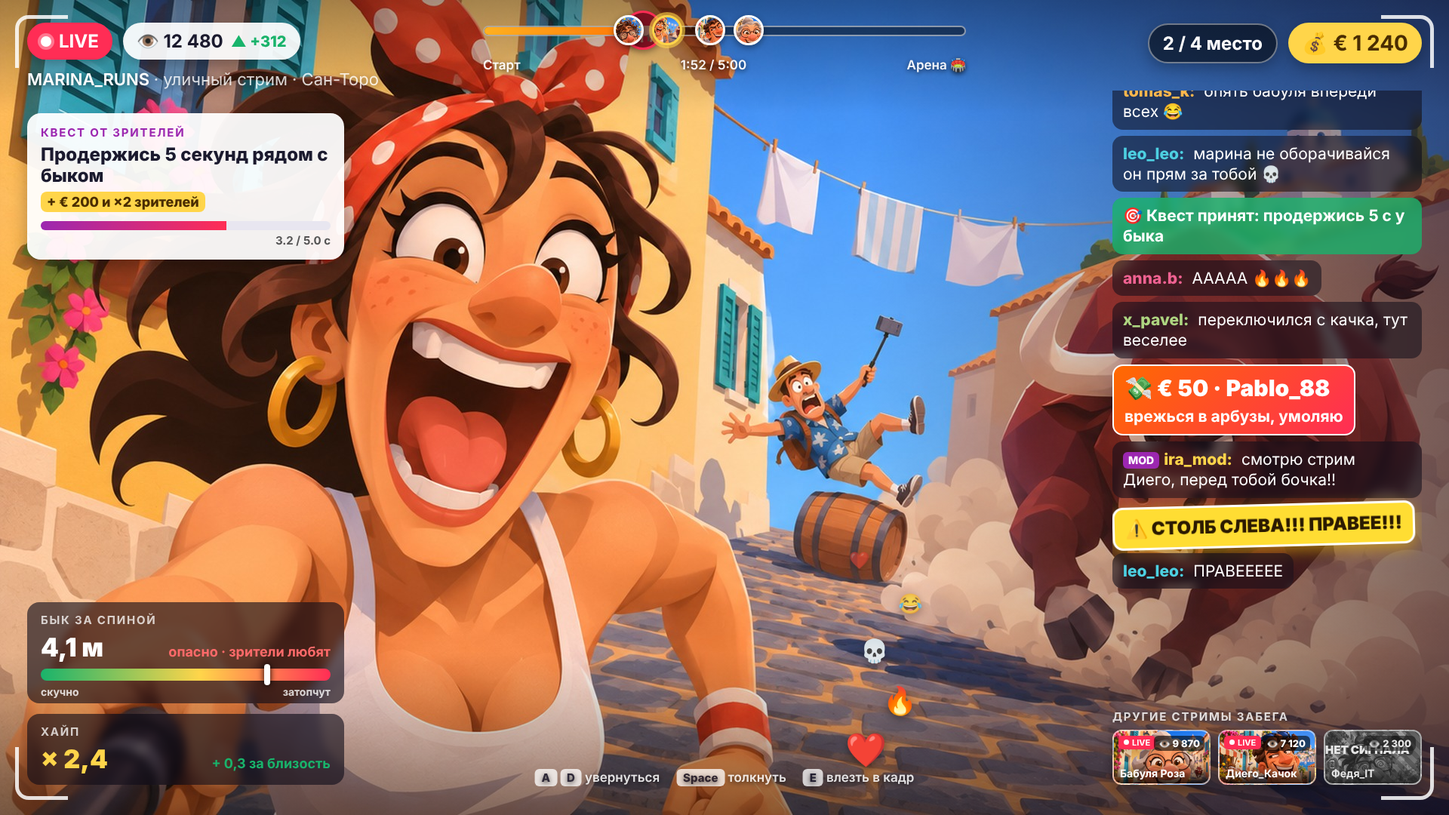
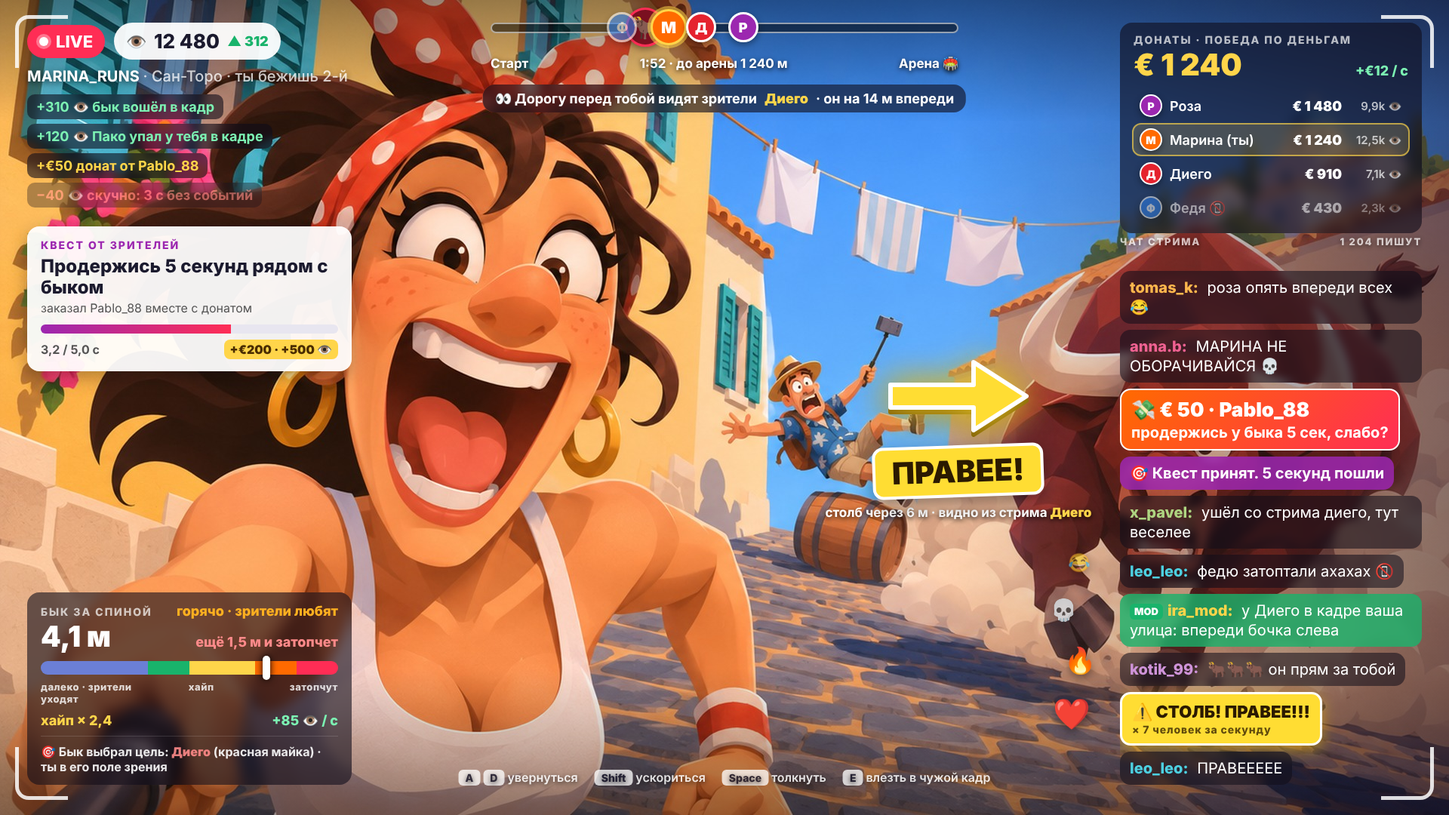
art: фейкскрин v2 без чужих стримов, раздел «Интерфейс стрима» в style.md
Claude-Session: https://claude.ai/code/session_013i76uEsykJubeGsvP9zGdB

diff --git a/art/refs/fakescreen-01-src/screen.html b/art/refs/fakescreen-01-src/screen.html
@@ -5,152 +5,183 @@
 html,body{width:1920px;height:1080px;overflow:hidden;background:#000}
 body{font-family:Inter,"Noto Color Emoji",sans-serif;color:#fff;position:relative}
 .bg{position:absolute;inset:0;background:url(base.jpg) center/cover}
-.vignette{position:absolute;inset:0;background:
- linear-gradient(90deg,rgba(0,0,0,0) 60%,rgba(20,10,30,.55) 100%),
- linear-gradient(180deg,rgba(0,0,0,.35) 0,rgba(0,0,0,0) 14%,rgba(0,0,0,0) 80%,rgba(0,0,0,.45) 100%)}
-.pill{display:inline-flex;align-items:center;gap:10px;background:rgba(255,255,255,.92);color:#1b1a2e;border-radius:999px;padding:10px 18px;font-weight:700;font-size:24px;box-shadow:0 6px 18px rgba(0,0,0,.25)}
+.vig{position:absolute;inset:0;background:
+ linear-gradient(90deg,rgba(0,0,0,0) 66%,rgba(20,10,30,.5) 100%),
+ linear-gradient(180deg,rgba(0,0,0,.4) 0,rgba(0,0,0,0) 15%,rgba(0,0,0,0) 82%,rgba(0,0,0,.4) 100%)}
+.glass{background:rgba(15,12,25,.6);backdrop-filter:blur(8px);border-radius:16px}
+.white{background:rgba(255,255,255,.94);color:#1b1a2e;border-radius:16px;box-shadow:0 8px 24px rgba(0,0,0,.3)}
+.t{font-size:14px;letter-spacing:.14em;text-transform:uppercase;font-weight:800;opacity:.7}
+.pill{display:inline-flex;align-items:center;gap:10px;border-radius:999px;padding:9px 16px;font-weight:800;font-size:22px}
 .live{background:#ff2d55;color:#fff}
-.live i{width:14px;height:14px;border-radius:50%;background:#fff;display:inline-block;animation:none;box-shadow:0 0 0 4px rgba(255,255,255,.35)}
-.top{position:absolute;left:36px;top:30px;display:flex;gap:14px;align-items:center}
-.up{color:#19b36b;font-size:20px;font-weight:800}
-.name{position:absolute;left:36px;top:92px;font-size:22px;font-weight:600;text-shadow:0 2px 8px rgba(0,0,0,.6)}
-.name span{opacity:.8;font-weight:400}
-/* progress of the street */
-.track{position:absolute;left:50%;top:34px;transform:translateX(-50%);width:640px}
-.track .bar{height:14px;border-radius:7px;background:rgba(0,0,0,.45);position:relative;border:2px solid rgba(255,255,255,.5)}
-.track .fill{position:absolute;left:0;top:0;bottom:0;width:38%;border-radius:7px;background:linear-gradient(90deg,#ffb020,#ff6a00)}
-.track .m{position:absolute;top:-16px;width:40px;height:40px;border-radius:50%;border:3px solid #fff;background:#444 center/cover;box-shadow:0 3px 8px rgba(0,0,0,.4);transform:translateX(-50%)}
-.track .bull{top:-22px;width:52px;height:52px;border:3px solid #ff2d55;background:#7a1020;display:flex;align-items:center;justify-content:center;font-size:30px}
-.track .lbl{display:flex;justify-content:space-between;font-size:17px;font-weight:600;margin-top:28px;text-shadow:0 2px 6px rgba(0,0,0,.7);opacity:.95}
-/* right top */
-.tr{position:absolute;right:36px;top:30px;display:flex;gap:14px;align-items:center}
-.money{background:#ffd54a;color:#4a2d00;font-size:28px}
-.place{background:rgba(0,0,0,.55);color:#fff;border:2px solid rgba(255,255,255,.4)}
-/* chat */
-.chat{position:absolute;right:36px;top:120px;width:410px;bottom:300px;overflow:hidden;display:flex;flex-direction:column;justify-content:flex-end;gap:8px}
-.msg{background:rgba(15,12,25,.55);backdrop-filter:blur(6px);border-radius:14px;padding:10px 14px;font-size:21px;line-height:1.3;max-width:100%;align-self:flex-start}
-.msg b{font-weight:800;margin-right:6px}
-.msg.warn{background:#ffdd33;color:#2b1a00;font-weight:900;font-size:24px;border:3px solid #fff;box-shadow:0 6px 20px rgba(255,200,0,.5);transform:rotate(-1.5deg)}
-.msg.donate{background:linear-gradient(135deg,#ff6a00,#ff2d55);color:#fff;font-weight:700;border:2px solid #fff}
-.msg.donate .sum{display:block;font-size:30px;font-weight:900;margin-bottom:4px}
-.msg.sys{background:rgba(25,179,107,.8);font-weight:700}
-.c1{color:#ffb74d}.c2{color:#4dd0e1}.c3{color:#f06292}.c4{color:#aed581}.c5{color:#ce93d8}.c6{color:#ffd54a}
-.badge{display:inline-block;background:#9c27b0;color:#fff;font-size:14px;padding:2px 7px;border-radius:6px;margin-right:6px;vertical-align:middle;font-weight:800}
-/* quest */
-.quest{position:absolute;left:36px;top:150px;width:420px;background:rgba(255,255,255,.94);color:#1b1a2e;border-radius:18px;padding:16px 18px;box-shadow:0 8px 24px rgba(0,0,0,.3)}
-.quest h4{font-size:15px;letter-spacing:.12em;text-transform:uppercase;color:#9c27b0;margin-bottom:6px}
+.live i{width:12px;height:12px;border-radius:50%;background:#fff;display:inline-block;box-shadow:0 0 0 4px rgba(255,255,255,.35)}
+.av{display:inline-flex;align-items:center;justify-content:center;border-radius:50%;font-weight:900;color:#fff;border:3px solid #fff;box-shadow:0 3px 8px rgba(0,0,0,.4)}
+.aM{background:#ff6a00}.aR{background:#9c27b0}.aD{background:#e5232e}.aF{background:#2f80ed}
+/* ---------- top left: who am I, viewers, why they change ---------- */
+.tl{position:absolute;left:36px;top:30px;width:430px}
+.tl .row{display:flex;gap:12px;align-items:center}
+.viewers{background:rgba(255,255,255,.94);color:#1b1a2e}
+.viewers .n{font-size:26px}
+.viewers .d{color:#19b36b;font-size:18px;font-weight:900}
+.nick{margin-top:10px;font-size:20px;font-weight:700;text-shadow:0 2px 8px rgba(0,0,0,.7)}
+.nick span{opacity:.75;font-weight:500}
+.feed{margin-top:12px;display:flex;flex-direction:column;gap:6px}
+.feed div{align-self:flex-start;padding:6px 12px;border-radius:10px;font-size:18px;font-weight:700;background:rgba(15,12,25,.6);backdrop-filter:blur(6px)}
+.feed .pos{color:#7CF2B3}.feed .neg{color:#ff8a8a}.feed .eur{color:#ffd54a}
+.feed .old{opacity:.55}
+/* ---------- quest ---------- */
+.quest{position:absolute;left:36px;top:300px;width:430px;padding:16px 18px}
+.quest h4{color:#9c27b0;margin-bottom:6px;font-size:14px;letter-spacing:.14em;text-transform:uppercase;font-weight:800}
 .quest p{font-size:24px;font-weight:800;line-height:1.15}
-.quest .rw{font-size:18px;color:#4a2d00;background:#ffd54a;display:inline-block;border-radius:8px;padding:3px 8px;margin-top:8px;font-weight:800}
-.quest .pb{height:12px;background:#e8e6f0;border-radius:6px;margin-top:12px;overflow:hidden}
+.quest .from{font-size:16px;color:#555;margin-top:4px}
+.quest .pb{height:12px;background:#e8e6f0;border-radius:6px;margin-top:12px;overflow:hidden;position:relative}
 .quest .pb i{display:block;height:100%;width:64%;background:linear-gradient(90deg,#9c27b0,#ff2d55)}
-.quest small{display:block;text-align:right;font-size:15px;font-weight:700;margin-top:4px;color:#555}
-/* bottom left: danger + hype */
-.bl{position:absolute;left:36px;bottom:40px;display:flex;flex-direction:column;gap:14px}
-.card{background:rgba(15,12,25,.62);backdrop-filter:blur(6px);border-radius:16px;padding:14px 18px;width:420px}
-.card .t{font-size:15px;letter-spacing:.12em;text-transform:uppercase;opacity:.75;margin-bottom:6px;font-weight:700}
-.card .v{font-size:34px;font-weight:900;display:flex;justify-content:space-between;align-items:baseline}
-.card .v small{font-size:18px;font-weight:700;color:#ff6a6a}
-.heat{height:16px;border-radius:8px;background:linear-gradient(90deg,#19b36b,#ffd54a 55%,#ff2d55);position:relative;margin-top:8px}
-.heat i{position:absolute;top:-6px;left:78%;width:8px;height:28px;background:#fff;border-radius:4px;box-shadow:0 0 8px #000;transform:translateX(-50%)}
-.heat .z{position:absolute;top:22px;font-size:14px;font-weight:700;opacity:.8}
-.hype .v{color:#ffd54a}
-/* reactions */
-.re{position:absolute;font-size:44px;filter:drop-shadow(0 4px 6px rgba(0,0,0,.4))}
-/* other streams */
-.others{position:absolute;right:36px;bottom:40px;width:410px}
-.others .t{font-size:15px;letter-spacing:.12em;text-transform:uppercase;opacity:.8;margin-bottom:8px;font-weight:700;text-shadow:0 2px 6px rgba(0,0,0,.7)}
-.others .row{display:flex;gap:10px}
-.th{flex:1;aspect-ratio:16/9;border-radius:12px;background:#333 center/cover;position:relative;border:2px solid rgba(255,255,255,.5);overflow:hidden;box-shadow:0 6px 16px rgba(0,0,0,.35)}
-.th .n{position:absolute;left:0;right:0;bottom:0;padding:5px 8px;font-size:14px;font-weight:700;background:linear-gradient(0deg,rgba(0,0,0,.8),rgba(0,0,0,0))}
-.th .vv{position:absolute;right:6px;top:6px;font-size:13px;font-weight:800;background:rgba(0,0,0,.6);padding:2px 6px;border-radius:6px}
-.th .live{position:absolute;left:6px;top:6px;font-size:11px;padding:2px 7px;border-radius:5px;display:inline-flex;gap:4px;align-items:center}
-.th .live i{width:7px;height:7px;box-shadow:none}
-.th.lost{filter:grayscale(1) contrast(.8)}
-.th.lost .ns{position:absolute;inset:0;display:flex;align-items:center;justify-content:center;font-size:15px;font-weight:900;color:#fff;background:repeating-linear-gradient(45deg,rgba(0,0,0,.45) 0 6px,rgba(0,0,0,.25) 6px 12px)}
-/* keys */
-.keys{position:absolute;left:50%;bottom:40px;transform:translateX(-50%);display:flex;gap:22px;font-size:17px;font-weight:600;opacity:.85;text-shadow:0 2px 6px rgba(0,0,0,.8)}
-.keys kbd{background:rgba(255,255,255,.9);color:#1b1a2e;border-radius:6px;padding:2px 9px;font-family:Inter;font-weight:800;margin-right:4px;font-size:15px}
-/* phone frame corners */
-.corner{position:absolute;width:70px;height:70px;border:5px solid rgba(255,255,255,.85);border-radius:6px}
-.corner.tl{left:0;top:0;border-right:0;border-bottom:0;left:20px;top:20px;border-radius:18px 0 0 0}
+.quest .meta{display:flex;justify-content:space-between;align-items:center;margin-top:8px;font-size:16px;font-weight:700;color:#555}
+.quest .rw{background:#ffd54a;color:#4a2d00;border-radius:8px;padding:3px 8px;font-weight:900}
+/* ---------- top center: street progress ---------- */
+.track{position:absolute;left:50%;top:30px;transform:translateX(-50%);width:620px}
+.track .bar{height:14px;border-radius:7px;background:rgba(0,0,0,.5);position:relative;border:2px solid rgba(255,255,255,.55)}
+.track .m{position:absolute;top:-16px;width:40px;height:40px;font-size:18px;transform:translateX(-50%)}
+.track .me{width:48px;height:48px;top:-20px;border-color:#ffd54a;box-shadow:0 0 0 4px rgba(255,213,74,.55);font-size:21px}
+.track .bull{top:-22px;width:52px;height:52px;border-color:#ff2d55;background:#7a1020;font-size:30px}
+.track .lbl{display:flex;justify-content:space-between;font-size:17px;font-weight:700;margin-top:30px;text-shadow:0 2px 6px rgba(0,0,0,.8)}
+.eyes{position:absolute;left:50%;top:112px;transform:translateX(-50%);padding:8px 16px;font-size:18px;font-weight:700;display:flex;gap:10px;align-items:center;white-space:nowrap}
+.eyes b{color:#ffd54a}
+/* ---------- top right: score ---------- */
+.score{position:absolute;right:36px;top:30px;width:400px;padding:14px 18px}
+.score .big{display:flex;justify-content:space-between;align-items:baseline}
+.score .eur{font-size:40px;font-weight:900;color:#ffd54a}
+.score .rate{font-size:18px;font-weight:800;color:#7CF2B3}
+.lb{margin-top:10px;display:flex;flex-direction:column;gap:5px}
+.lb div{display:flex;align-items:center;gap:10px;font-size:18px;font-weight:600;padding:5px 8px;border-radius:10px}
+.lb .av{width:30px;height:30px;font-size:14px;border-width:2px}
+.lb .nm{flex:1}
+.lb .e{font-weight:900;width:84px;text-align:right}
+.lb .v{opacity:.7;width:70px;text-align:right;font-size:15px}
+.lb .me{background:rgba(255,213,74,.18);outline:2px solid rgba(255,213,74,.7)}
+.lb .off{opacity:.55}
+/* ---------- chat ---------- */
+.chat{position:absolute;right:36px;top:340px;width:400px;bottom:40px;display:flex;flex-direction:column;justify-content:flex-end;gap:8px;overflow:hidden}
+.msg{background:rgba(15,12,25,.55);backdrop-filter:blur(6px);border-radius:14px;padding:9px 13px;font-size:20px;line-height:1.3;align-self:flex-start}
+.msg b{font-weight:800;margin-right:6px}
+.msg.sys{background:rgba(156,39,176,.85);font-weight:700}
+.msg.donate{background:linear-gradient(135deg,#ff6a00,#ff2d55);font-weight:700;border:2px solid #fff}
+.msg.donate .sum{display:block;font-size:26px;font-weight:900}
+.msg.mod{background:rgba(25,179,107,.8)}
+.msg.warn{background:#ffdd33;color:#2b1a00;font-weight:900;font-size:22px;border:3px solid #fff;box-shadow:0 6px 20px rgba(255,200,0,.5)}
+.msg.warn small{display:block;font-size:14px;font-weight:800;opacity:.75;letter-spacing:.06em}
+.c1{color:#ffb74d}.c2{color:#4dd0e1}.c3{color:#f06292}.c4{color:#aed581}.c5{color:#ce93d8}.c6{color:#ffd54a}
+.badge{display:inline-block;background:#19b36b;color:#fff;font-size:13px;padding:2px 6px;border-radius:6px;margin-right:6px;vertical-align:middle;font-weight:900}
+.chatlbl{position:absolute;right:36px;top:312px;width:400px;font-size:13px;letter-spacing:.14em;text-transform:uppercase;font-weight:800;opacity:.7;text-shadow:0 2px 6px rgba(0,0,0,.8);display:flex;justify-content:space-between}
+/* ---------- callout: the one thing to do right now ---------- */
+.callout{position:absolute;left:1080px;top:470px;width:380px;text-align:center}
+.callout .arrow{filter:drop-shadow(0 0 24px rgba(255,220,50,.9)) drop-shadow(0 6px 0 #7a5a00);margin-bottom:6px}
+.callout .w{display:inline-block;background:#ffdd33;color:#2b1a00;font-weight:900;font-size:40px;padding:6px 22px;border-radius:14px;border:4px solid #fff;box-shadow:0 8px 24px rgba(0,0,0,.4);transform:rotate(-2deg)}
+.callout .why{margin-top:10px;font-size:17px;font-weight:700;text-shadow:0 2px 6px rgba(0,0,0,.9)}
+.callout .why b{color:#ffd54a}
+/* ---------- bottom left: bull gauge ---------- */
+.bull{position:absolute;left:36px;bottom:40px;width:430px;padding:14px 18px}
+.bull .hd{display:flex;justify-content:space-between;align-items:baseline}
+.bull .dist{font-size:38px;font-weight:900}
+.bull .state{font-size:18px;font-weight:800;color:#ffb020}
+.zones{height:18px;border-radius:9px;background:linear-gradient(90deg,#6b7fd6 0 36%,#19b36b 36% 50%,#ffd54a 50% 72%,#ff6a00 72% 86%,#ff2d55 86%);position:relative;margin-top:10px}
+.zones i{position:absolute;top:-7px;left:76%;width:10px;height:32px;background:#fff;border-radius:5px;box-shadow:0 0 10px #000;transform:translateX(-50%)}
+.zl{display:flex;font-size:13px;font-weight:800;opacity:.8;margin-top:8px;letter-spacing:.04em}
+.zl span:nth-child(1){width:36%}.zl span:nth-child(2){width:36%;text-align:center}.zl span:nth-child(3){width:28%;text-align:right}
+.eff{display:flex;justify-content:space-between;margin-top:10px;font-size:18px;font-weight:800}
+.eff .h{color:#ffd54a}.eff .g{color:#7CF2B3}
+.target{margin-top:10px;font-size:16px;font-weight:700;opacity:.9;padding-top:10px;border-top:1px solid rgba(255,255,255,.15)}
+.target b{color:#ff8a8a}
+/* ---------- keys ---------- */
+.keys{position:absolute;left:50%;bottom:40px;transform:translateX(-50%);display:flex;gap:22px;font-size:16px;font-weight:600;opacity:.85;text-shadow:0 2px 6px rgba(0,0,0,.8);white-space:nowrap}
+.keys kbd{background:rgba(255,255,255,.9);color:#1b1a2e;border-radius:6px;padding:2px 9px;font-family:Inter;font-weight:800;margin-right:4px;font-size:14px}
+.re{position:absolute;font-size:40px;filter:drop-shadow(0 4px 6px rgba(0,0,0,.4))}
+.corner{position:absolute;width:70px;height:70px;border:5px solid rgba(255,255,255,.85)}
+.corner.tl{left:20px;top:20px;border-right:0;border-bottom:0;border-radius:18px 0 0 0}
 .corner.tr{right:20px;top:20px;border-left:0;border-bottom:0;border-radius:0 18px 0 0}
 .corner.bl{left:20px;bottom:20px;border-right:0;border-top:0;border-radius:0 0 0 18px}
 .corner.br{right:20px;bottom:20px;border-left:0;border-top:0;border-radius:0 0 18px 0}
-.rec{position:absolute;left:50%;top:94px;transform:translateX(-50%);font-size:16px;font-weight:700;letter-spacing:.2em;opacity:.8;text-shadow:0 2px 6px rgba(0,0,0,.8)}
 </style></head><body>
-<div class="bg"></div><div class="vignette"></div>
+<div class="bg"></div><div class="vig"></div>
 
-<div class="top">
-  <span class="pill live"><i></i> LIVE</span>
-  <span class="pill">👁 12 480 <span class="up">▲ +312</span></span>
-</div>
-<div class="name">MARINA_RUNS <span>· уличный стрим · Сан-Торо</span></div>
-
-<div class="track">
-  <div class="bar"><div class="fill"></div>
-    <div class="m bull" style="left:33%">🐂</div>
-    <div class="m" style="left:38%;background-image:url(base.jpg);border-color:#ffd54a;box-shadow:0 0 0 4px rgba(255,213,74,.6)"></div>
-    <div class="m" style="left:30%;background-image:url(runner-nerd-nosignal-01.jpg)"></div>
-    <div class="m" style="left:47%;background-image:url(runner-bro-smug-01.jpg)"></div>
-    <div class="m" style="left:55%;background-image:url(runner-grandma-delight-01.jpg)"></div>
+<div class="tl">
+  <div class="row">
+    <span class="pill live"><i></i> LIVE</span>
+    <span class="pill viewers">👁 <span class="n">12 480</span><span class="d">▲ 312</span></span>
   </div>
-  <div class="lbl"><span>Старт</span><span>1:52 / 5:00</span><span>Арена 🏟</span></div>
+  <div class="nick">MARINA_RUNS <span>· Сан-Торо · ты бежишь 2-й</span></div>
+  <div class="feed">
+    <div class="pos">+310 👁 бык вошёл в кадр</div>
+    <div class="pos">+120 👁 Пако упал у тебя в кадре</div>
+    <div class="eur">+€50 донат от Pablo_88</div>
+    <div class="neg old">−40 👁 скучно: 3 с без событий</div>
+  </div>
 </div>
 
-<div class="tr">
-  <span class="pill place">2 / 4 место</span>
-  <span class="pill money">💰 € 1 240</span>
-</div>
-
-<div class="quest">
+<div class="quest white">
   <h4>Квест от зрителей</h4>
   <p>Продержись 5 секунд рядом с быком</p>
-  <span class="rw">+ € 200 и ×2 зрителей</span>
+  <div class="from">заказал Pablo_88 вместе с донатом</div>
   <div class="pb"><i></i></div>
-  <small>3.2 / 5.0 с</small>
+  <div class="meta"><span>3,2 / 5,0 с</span><span class="rw">+€200 · +500 👁</span></div>
 </div>
 
+<div class="track">
+  <div class="bar">
+    <div class="m av bull" style="left:33%">🐂</div>
+    <div class="m av aF" style="left:28%;opacity:.6">Ф</div>
+    <div class="m av aM me" style="left:38%">М</div>
+    <div class="m av aD" style="left:45%">Д</div>
+    <div class="m av aR" style="left:54%">Р</div>
+  </div>
+  <div class="lbl"><span>Старт</span><span>1:52 · до арены 1 240 м</span><span>Арена 🏟</span></div>
+</div>
+<div class="eyes glass">👀 Дорогу перед тобой видят зрители <b>Диего</b> · он на 14 м впереди</div>
+
+<div class="score glass">
+  <div class="t">Донаты · победа по деньгам</div>
+  <div class="big"><span class="eur">€ 1 240</span><span class="rate">+€12 / с</span></div>
+  <div class="lb">
+    <div><span class="av aR">Р</span><span class="nm">Роза</span><span class="e">€ 1 480</span><span class="v">9,9k 👁</span></div>
+    <div class="me"><span class="av aM">М</span><span class="nm">Марина (ты)</span><span class="e">€ 1 240</span><span class="v">12,5k 👁</span></div>
+    <div><span class="av aD">Д</span><span class="nm">Диего</span><span class="e">€ 910</span><span class="v">7,1k 👁</span></div>
+    <div class="off"><span class="av aF">Ф</span><span class="nm">Федя 📵</span><span class="e">€ 430</span><span class="v">2,3k 👁</span></div>
+  </div>
+</div>
+
+<div class="chatlbl"><span>Чат стрима</span><span>1 204 пишут</span></div>
 <div class="chat">
-  <div class="msg"><b class="c1">tomas_k:</b> опять бабуля впереди всех 😂</div>
-  <div class="msg"><b class="c2">leo_leo:</b> марина не оборачивайся он прям за тобой 💀</div>
-  <div class="msg sys">🎯 Квест принят: продержись 5 с у быка</div>
-  <div class="msg"><b class="c3">anna.b:</b> ААААА 🔥🔥🔥</div>
-  <div class="msg"><b class="c4">x_pavel:</b> переключился с качка, тут веселее</div>
-  <div class="msg donate"><span class="sum">💸 € 50 · Pablo_88</span>врежься в арбузы, умоляю</div>
-  <div class="msg"><b class="c6"><span class="badge">MOD</span>ira_mod:</b> смотрю стрим Диего, перед тобой бочка!!</div>
-  <div class="msg warn">⚠ СТОЛБ СЛЕВА!!! ПРАВЕЕ!!!</div>
+  <div class="msg"><b class="c1">tomas_k:</b> роза опять впереди всех 😂</div>
+  <div class="msg"><b class="c3">anna.b:</b> МАРИНА НЕ ОБОРАЧИВАЙСЯ 💀</div>
+  <div class="msg donate"><span class="sum">💸 € 50 · Pablo_88</span>продержись у быка 5 сек, слабо?</div>
+  <div class="msg sys">🎯 Квест принят. 5 секунд пошли</div>
+  <div class="msg"><b class="c4">x_pavel:</b> ушёл со стрима диего, тут веселее</div>
+  <div class="msg"><b class="c2">leo_leo:</b> федю затоптали ахахах 📵</div>
+  <div class="msg mod"><b class="c6"><span class="badge">MOD</span>ira_mod:</b> у Диего в кадре ваша улица: впереди бочка слева</div>
+  <div class="msg"><b class="c5">kotik_99:</b> 🐂🐂🐂 он прям за тобой</div>
+  <div class="msg warn">⚠ СТОЛБ! ПРАВЕЕ!!!<small>× 7 человек за секунду</small></div>
   <div class="msg"><b class="c2">leo_leo:</b> ПРАВЕЕЕЕЕ</div>
 </div>
 
-<div class="bl">
-  <div class="card">
-    <div class="t">Бык за спиной</div>
-    <div class="v">4,1 м <small>опасно · зрители любят</small></div>
-    <div class="heat"><i></i><span class="z" style="left:0">скучно</span><span class="z" style="right:0">затопчут</span></div>
-    <div style="height:16px"></div>
-  </div>
-  <div class="card hype">
-    <div class="t">Хайп</div>
-    <div class="v">× 2,4 <small style="color:#19b36b">+ 0,3 за близость</small></div>
-  </div>
+<div class="callout">
+  <div class="arrow"><svg width="200" height="110" viewBox="0 0 200 110"><path d="M10 40 H120 V10 L190 55 L120 100 V70 H10 Z" fill="#ffdd33" stroke="#fff" stroke-width="6" stroke-linejoin="round"/></svg></div>
+  <div class="w">ПРАВЕЕ!</div>
+  <div class="why">столб через 6 м · видно из стрима <b>Диего</b></div>
 </div>
 
-<div class="re" style="left:1120px;bottom:60px">❤</div>
-<div class="re" style="left:1170px;bottom:130px;font-size:36px">🔥</div>
-<div class="re" style="left:1140px;bottom:200px;font-size:30px">💀</div>
-<div class="re" style="left:1190px;bottom:265px;font-size:26px;opacity:.7">😂</div>
-<div class="re" style="left:1125px;bottom:325px;font-size:22px;opacity:.5">❤</div>
-
-<div class="others">
-  <div class="t">Другие стримы забега</div>
-  <div class="row">
-    <div class="th" style="background-image:url(runner-grandma-delight-01.jpg)"><span class="pill live"><i></i>LIVE</span><span class="vv">👁 9 870</span><div class="n">Бабуля Роза</div></div>
-    <div class="th" style="background-image:url(runner-bro-smug-01.jpg)"><span class="pill live"><i></i>LIVE</span><span class="vv">👁 7 120</span><div class="n">Диего_Качок</div></div>
-    <div class="th lost" style="background-image:url(runner-nerd-nosignal-01.jpg)"><div class="ns">НЕТ СИГНАЛА 📵</div><span class="vv">👁 2 300</span><div class="n">Федя_IT</div></div>
-  </div>
+<div class="bull glass">
+  <div class="hd"><span class="t">Бык за спиной</span><span class="state">горячо · зрители любят</span></div>
+  <div class="hd"><span class="dist">4,1 м</span><span class="state" style="color:#ff8a8a">ещё 1,5 м и затопчет</span></div>
+  <div class="zones"><i></i></div>
+  <div class="zl"><span>далеко · зрители уходят</span><span>хайп</span><span>затопчут</span></div>
+  <div class="eff"><span class="h">хайп × 2,4</span><span class="g">+85 👁 / с</span></div>
+  <div class="target">🎯 Бык выбрал цель: <b>Диего</b> (красная майка) · ты в его поле зрения</div>
 </div>
 
-<div class="keys"><span><kbd>A</kbd><kbd>D</kbd>увернуться</span><span><kbd>Space</kbd>толкнуть</span><span><kbd>E</kbd>влезть в кадр</span></div>
+<div class="re" style="left:1395px;bottom:110px">❤</div>
+<div class="re" style="left:1410px;bottom:185px;font-size:34px">🔥</div>
+<div class="re" style="left:1392px;bottom:255px;font-size:28px;opacity:.8">💀</div>
+<div class="re" style="left:1415px;bottom:320px;font-size:24px;opacity:.6">😂</div>
 
+<div class="keys"><span><kbd>A</kbd><kbd>D</kbd>увернуться</span><span><kbd>Shift</kbd>ускориться</span><span><kbd>Space</kbd>толкнуть</span><span><kbd>E</kbd>влезть в чужой кадр</span></div>
 <div class="corner tl"></div><div class="corner tr"></div><div class="corner bl"></div><div class="corner br"></div>
 </body></html>

diff --git a/art/style.md b/art/style.md
@@ -31,9 +31,25 @@
 - Лицо разбирается на кастомизируемые части поверх архетипа: причёска, очки, усы, цвет кожи, аксессуары на селфи-палке.
 
 ## Камера
-- Основной кадр — вид «с фронталки» селфи-палки: лицо бегуна крупно, за ним улица, бык и соседи.
-- Вокруг — интерфейс стрима: лента чата, счётчик зрителей, донаты, эмодзи.
-- Детали камеры и второго вида (если нужен) — с техлидом и геймдизайнером.
+- Единственный кадр — вид «с фронталки» селфи-палки: лицо бегуна крупно, за ним улица, бык и соседи. Чужих стримов на экране нет.
+- Вокруг — интерфейс стрима (ниже). Детали камеры — с техлидом и геймдизайнером.
+
+## Интерфейс стрима
+Ориентир — `refs/fakescreen-01.png`. Каждый элемент отвечает на один вопрос игрока; элемент без вопроса не нужен.
+
+| Вопрос игрока | Элемент | Где |
+|---|---|---|
+| Сколько меня смотрят и почему это меняется | Счётчик зрителей с трендом и лента причин («+310 бык вошёл в кадр», «−40 скучно») | слева сверху |
+| Что от меня хотят зрители | Карточка квеста: кто заказал, прогресс, награда | слева |
+| Где все на улице и сколько осталось | Полоса улицы с метками бегунов и быка, таймер, метры до арены | по центру сверху |
+| Видит ли кто-то дорогу передо мной | Строка «дорогу видят зрители Диего · 14 м впереди»; у лидера: «ты первая, дорогу никто не видит» | под полосой |
+| Выигрываю ли я | Донаты (счёт), скорость заработка, таблица четырёх по деньгам и зрителям | справа сверху |
+| Что происходит и что впереди | Чат: обычные сообщения, донаты, модератор с подсказкой из чужого стрима, предупреждение, которое пишут многие сразу | справа |
+| Что делать прямо сейчас | Большая стрелка с направлением и причиной, когда чат сходится во мнении | над улицей, справа от лица |
+| Насколько я близко к быку и чем это грозит | Шкала «далеко · зрители уходят / хайп / затопчут», метры, множитель хайпа, приток зрителей, кого бык выбрал целью | слева снизу |
+| Как управлять | Подсказки клавиш | снизу по центру |
+
+Принципы: лицо и улица остаются открытыми (центр и левая треть над головой свободны); предупреждения рождаются в чате и только потом становятся стрелкой, чтобы игрок понимал источник; каждая цифра показывает причину рядом с собой, иначе правило «не всегда выгодно бежать быстро» невозможно выучить.
 
 ## Чего точно не делаем
 - Треш, грязь, кровь, уродство ради смеха.
@@ -46,4 +62,6 @@
 
 Раунд 1 (согласован с Nick): `street-overview-01`, `street-descent-widening-01`, `special-place-pond-01` — гамма и форма улицы зафиксированы; `bull-charging-01` — бык зафиксирован; `face-selfie-caricature-01` — выбранная стилизация лица (геометричный вариант отклонён и удалён).
 
-Раунд 2 (в работе): 2–3 разных бегуна в карикатурной стилизации с разными эмоциями, кадр улицы «как в игре» с лотками, соседями и быком.
+Раунд 2 (согласован): `runner-grandma-delight-01`, `runner-bro-smug-01`, `runner-nerd-nosignal-01` — ряд персонажей; `street-gameplay-01` — целевая картинка улицы в игре.
+
+Фейкскрин: `fakescreen-01.png` — базовый кадр `fakescreen-base-01.png` плюс интерфейс стрима, исходники в `fakescreen-01-src/`.
